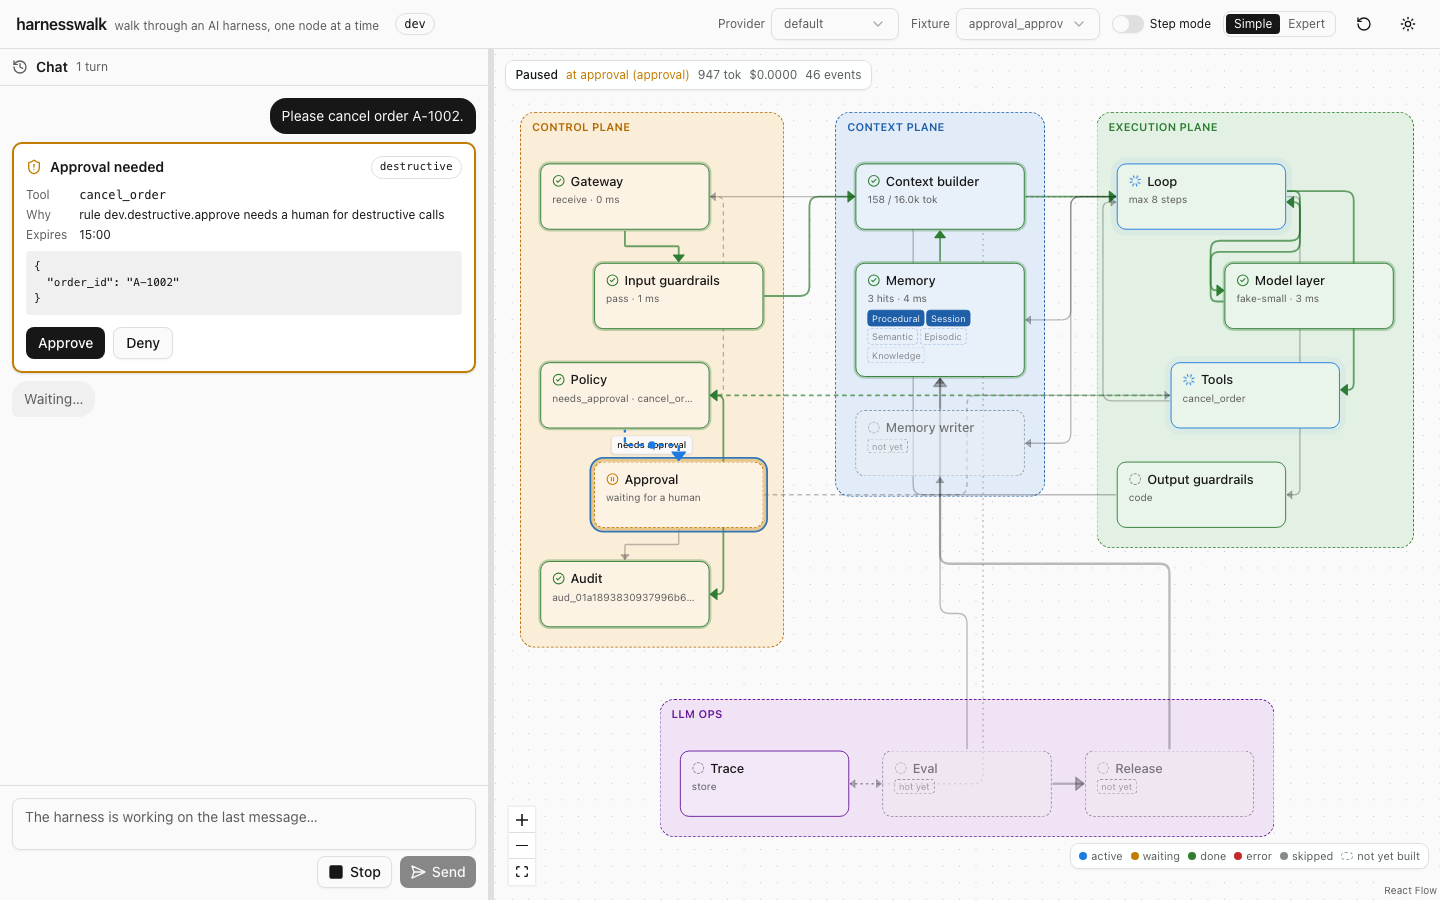
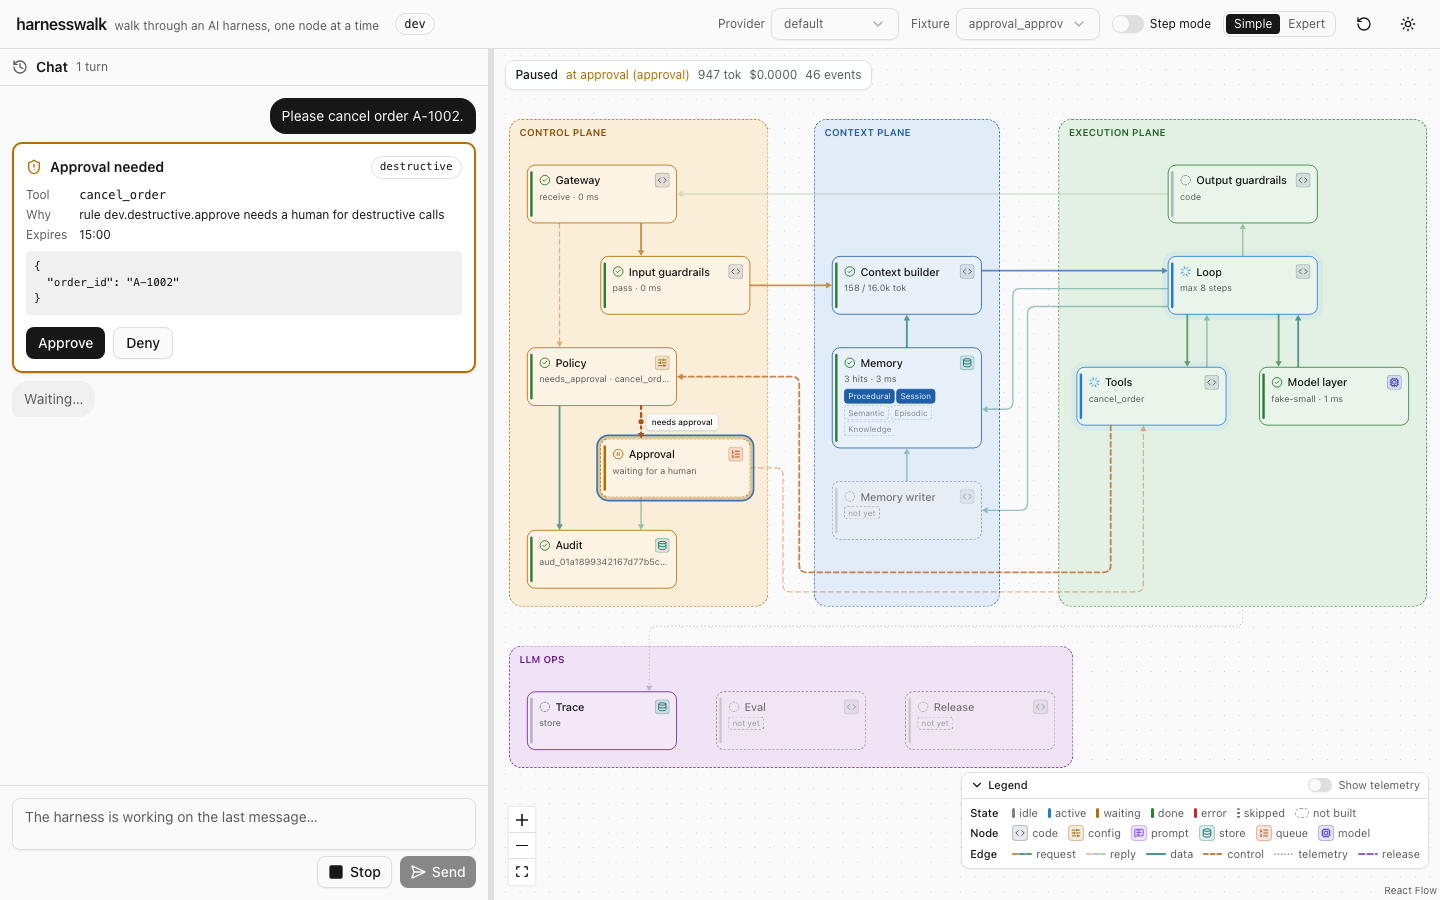
docs: document the diagram colour system and refresh the screenshots
Adds the expert-view screenshot and the before-and-after of the edge routing,
with the owner's screenshot kept as edges-before.png.

diff --git a/web/README.md b/web/README.md
@@ -6,7 +6,7 @@ prompt, its code and its events. Turn on step mode to stop at every node, or rep
 with a slider.
 
 Stack: React 19, Vite, TypeScript (strict), Tailwind 4, shadcn/ui, React Flow (`@xyflow/react`,
-attribution kept), Zustand, dagre, Vitest and Playwright. Node 24 and pnpm 10.
+attribution kept), Zustand, dagre (fallback layout), Vitest and Playwright. Node 24 and pnpm 10.
 
 ## Run it
 
@@ -27,7 +27,7 @@ pnpm build
 ## Test it
 
 ```sh
-pnpm test          # Vitest: reducer, layout, memory badges, stream client against the mock
+pnpm test          # Vitest: reducer, layout, edge routes, colour contrast, memory badges, stream client
 pnpm test:e2e      # Playwright smoke tests against a mock build (Chromium only)
 pnpm lint          # ESLint, then tsc -b
 pnpm test:e2e:live # Playwright against the real API with the fake provider, see below
@@ -45,7 +45,9 @@ straight from uvicorn. It drives the conformance fixtures (`tool_call`, `approva
 `approval_deny`, `step_mode`, `cancel_running`, `guardrail_block`) through the header menu, plus
 reconnect, reload, history, replay, New session and the inspector, and fails a test when any
 event breaks `spec/events.schema.json`. Playwright stops the server when the run ends.
-`HARNESSWALK_SCREENSHOTS=1` (`make screenshots`) also writes `docs/screenshots/*.png`.
+`HARNESSWALK_SCREENSHOTS=1` (`make screenshots`) also writes `docs/screenshots/*.png`; the
+side-by-side `edges-before-after.png` puts the kept `edges-before.png` (the old routing, from the
+owner's feedback) beside a fresh capture.
 
 ## Environment
 
@@ -58,8 +60,8 @@ event breaks `spec/events.schema.json`. Playwright stops the server when the run
 | `VITE_HARNESSWALK_API_URL` | build time | API origin when the UI is not served by the API or the proxy. Default same origin |
 | `VITE_HARNESSWALK_VALIDATE` | build time | `1` validates every event against the schema in a production build too (dev and mock builds always do) |
 
-Per-viewer conveniences (theme, view, collapsed groups, the session id and the messages this
-browser sent) live in `localStorage` under `harnesswalk.*`. The app works without storage.
+Per-viewer conveniences (theme, view, collapsed groups, the telemetry switch, the session id and
+the messages this browser sent) live in `localStorage` under `harnesswalk.*`. The app works without storage.
 
 ## Mock mode
 
@@ -78,14 +80,47 @@ run as against the real API. It:
 The mock and the schema validator are dynamic imports behind build-time constants, so a
 production build contains neither.
 
+## Reading the diagram: the colour system
+
+Colour carries four separate meanings, each on its own channel, so they never compete. The
+tokens live in `src/index.css` (light and dark), and `src/diagram/colors.test.ts` checks their
+contrast in both themes: 4.5:1 for text, 3:1 for accents, icons and edge strokes.
+
+| Channel | Drawn as | Values |
+|---|---|---|
+| Plane | group box background, dashed border and header | control amber, context blue, execution green, LLM Ops purple |
+| Node kind (purpose) | icon chip after the title; the kind word stays for screen readers | code slate, config amber, prompt violet, store teal, queue orange, model indigo |
+| Node state | left accent bar plus the status icon | idle neutral grey, active blue with a pulse, waiting amber (dashed border), done green (bar and icon only, border stays the plane's), error red, skipped grey dashed bar, not yet built muted and dashed |
+| Edge kind | stroke colour and dash | request solid in the source plane's colour, reply (a request back against walk order) a lighter tint of it, data solid teal, control dashed amber, telemetry dotted thin grey, release dashed purple |
+| Edge state | opacity and motion | idle 40 percent, flowing full opacity with moving dashes and a dot, used this turn 70 percent |
+
+Only an active, waiting or failed node changes its border, so while a turn runs the one active
+node stands out against the quiet done ones. An active edge shows its label beside the line,
+never on it, so the moving dot does not pass under it. With reduced motion there is no pulse,
+moving dash or dot; states still show by colour and weight.
+
+The legend (bottom right of the diagram) has one row per channel: states, node kinds, edge kinds.
+It collapses, and opens by default in the simple view. Its Show telemetry switch matters in the
+simple view only: by default the edges to and from LLM Ops are hidden and one dotted bus runs
+from the execution plane to Trace; the switch draws them all, and hovering a node draws its own.
+The expert view always draws every edge.
+
 ## How the diagram stays in step with the spec
 
 - The UI never hard-codes nodes or edges. It draws whatever `GET /v1/diagram` returns, and the
   API generates that from its node registry merged with `spec/diagram/diagram.json`.
-- Layout is computed from the diagram: `layout` hints when a node has them, otherwise the runtime
-  planes are columns in `groups[].order`, the ops plane is a row beneath, and dagre orders each
-  plane along `walk_order`. Expert nodes sit inside their `parent`; an expert edge that `refines`
-  a simple edge replaces it in the expert view and lights it in the simple view.
+- Layout is computed from the diagram: `layout` hints when a node has them (`layout.expert` in
+  the expert view), otherwise the runtime planes are columns in `groups[].order`, the ops plane
+  is a row beneath, and dagre orders each plane along `walk_order`. Expert nodes sit inside their
+  `parent`; an expert edge that `refines` a simple edge replaces it in the expert view and lights
+  it in the simple view.
+- Edges are routed from the spec too. An edge's `layout` hint names the side each end uses
+  (`handles`), its bend points (`waypoints`) and which side of the line its label sits on; a port
+  sits where the nearest bend point projects onto its side, so a lane is written once. An edge
+  without hints, or whose nodes moved (most of the expert view), goes through a deterministic
+  orthogonal router (`src/diagram/route.ts`: A* over a sparse grid around the node boxes, with
+  costs for bends, crossings and, steeply, running along another edge). `routes.test.ts` checks
+  that no two edges overlap on one line and no edge runs through a node.
 - Events are validated at runtime against `spec/events.schema.json` in dev and mock builds; a
   badge in the header counts failures.
 - Mock mode, the tests and the validator read `spec/` directly (`?raw` imports), never a copy.

diff --git a/README.md b/README.md
@@ -198,7 +198,14 @@ answers with a real local model instead.
 - **Replay.** Every finished turn has a Replay button: a slider walks the stored events back
   and forth on the diagram without calling the model again. History survives a reload.
 - **Simple and Expert.** Expert view opens memory, the model layer, tools and trace into their
-  parts.
+  parts, and draws every edge, telemetry included. The simple view folds the LLM Ops edges into
+  one telemetry bus; the legend's Show telemetry switch (or hovering a node) brings them back.
+- **Reading the colours.** A plane is a coloured box; a chip by each title says what kind of
+  thing the node is (code, config, prompt, store, queue, model); a bar on its left says its
+  state; an edge's colour and dash say what kind of traffic it carries. The legend in the
+  corner of the diagram lists them all, and [web/README.md](web/README.md) has the table.
+
+![The same turn in the expert view: every node opened into its parts](docs/screenshots/turn-done-expert.png)
 
 To work on the UI with hot reload, run `make run PROVIDER=fake` in one terminal and
 `make web-dev` in another, then open http://127.0.0.1:5173 (Vite proxies `/v1` to the API). To
